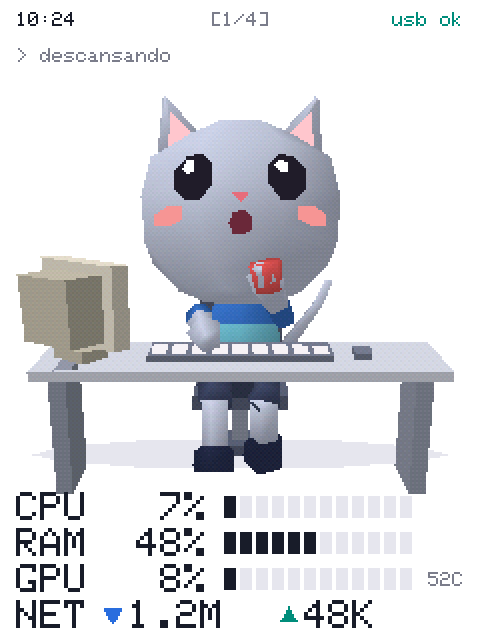
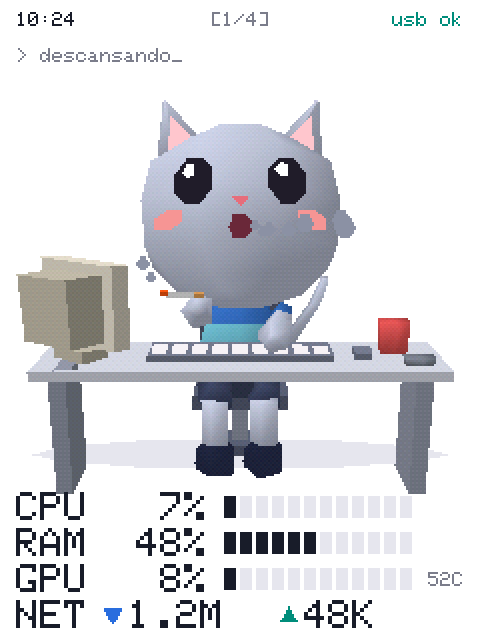
Añadir descanso para fumar y cenicero
Mientras descansa, la mascota alterna el café con un cigarro: da la
calada, suelta el humo hacia un lado y deja una voluta saliendo de la
brasa. Añade un cenicero en la mesa.

diff --git a/firmware/src/pets/critter.cpp b/firmware/src/pets/critter.cpp
@@ -13,6 +13,7 @@ enum Color : uint8_t {
   C_FUR, C_INNER, C_SHIRT, C_STRIPE, C_SHORTS, C_SHOE,
   C_INK, C_WHITE, C_BLUSH, C_MOUTH, C_NOSE,
   C_DESK, C_DESK_LEG, C_CHAIR, C_KEYBOARD, C_KEY, C_CRT, C_CRT_DARK, C_MUG, C_FLASH,
+  C_CIGARETTE, C_FILTER, C_EMBER, C_ASHTRAY,
 };
 
 // La cámara mira un poco desde arriba, para que se vea la mesa y el teclado
@@ -36,6 +37,11 @@ const int KEY_ROWS = 3, KEY_COLS = 9;
 const float REST_ARM_X = -1.47f, REST_ARM_Z = 0.15f;
 
 const float GRAVITY = 700;
+
+// Descanso para fumar: dos tandas de calada, soltar el humo y esperar
+const float SMOKE_BREAK = 9, SMOKE_CYCLE = 4.5f;
+const float DRAG_END = 1.3f, EXHALE_END = 2.5f;
+const Vec3 CIGARETTE_TIP = {-17, 0, 0};
 
 float rnd(float a, float b) { return a + (b - a) * (esp_random() / 4294967295.0f); }
 
@@ -110,6 +116,10 @@ Critter::Critter(const Species& species) : species_(species) {
   model_.setColor(C_CRT_DARK, 196, 190, 172);
   model_.setColor(C_MUG, 235, 90, 90);
   model_.setColor(C_FLASH, 0, 170, 150);
+  model_.setColor(C_CIGARETTE, 245, 245, 245);
+  model_.setColor(C_FILTER, 225, 160, 90);
+  model_.setColor(C_EMBER, 255, 90, 20);
+  model_.setColor(C_ASHTRAY, 130, 136, 150);
 
   // La cámara es la pieza raíz: al girarla se ve todo un poco desde arriba
   int camera = model_.addPart(-1, 0, CAMERA_PIVOT_Y, 0);
@@ -161,6 +171,11 @@ void Critter::buildDesk(int parent) {
   // Taza
   deskMug_ = model_.addPart(parent, 72, DESK_Y + 14, 28, 18);
   addMug(model_, deskMug_);
+
+  // Cenicero
+  int ashtray = model_.addPart(parent, 80, DESK_Y + 3, 52, 18);
+  const Ring ash[] = {{0, 8, 7, C_ASHTRAY}, {-3, 7, 6, C_ASHTRAY}};
+  model_.lathe(ashtray, ash, 2, 6);
 }
 
 void Critter::buildBody(int parent) {
@@ -208,6 +223,12 @@ void Critter::buildBody(int parent) {
   handMug_ = model_.addPart(armR_, 0, -34, 8, 66);
   model_.part(handMug_).rx = 2.35f;
   addMug(model_, handMug_);
+
+  // Cigarro en la otra mano: solo se ve mientras fuma
+  cigarette_ = model_.addPart(armL_, 0, -36, 6, 70);
+  model_.box(cigarette_, -2, 3, -1.3f, 1.3f, -1.3f, 1.3f, C_FILTER);
+  model_.box(cigarette_, -14, -2, -1.3f, 1.3f, -1.3f, 1.3f, C_CIGARETTE);
+  model_.box(cigarette_, -17, -14, -1.3f, 1.3f, -1.3f, 1.3f, C_EMBER);
 
   // Cabeza octogonal, con el pivote en el cuello
   head_ = model_.addPart(body_, 0, NECK_Y, 0, 22);
@@ -321,7 +342,10 @@ void Critter::showFace() {
       case Mood::Sleeping: eyes = Eyes::Closed; mouth = Mouth::Round; break;
       case Mood::Stressed: eyes = Eyes::Stress; mouth = Mouth::Wavy; break;
       case Mood::Busy: eyes = Eyes::Focus; mouth = Mouth::Flat; break;
-      case Mood::Relaxed: eyes = Eyes::Open; mouth = sipTimer_ > 0 ? Mouth::Round : Mouth::Open; break;
+      case Mood::Relaxed:
+        eyes = dragging_ ? Eyes::Closed : Eyes::Open;
+        mouth = dragging_ ? Mouth::Small : sipTimer_ > 0 || exhaling_ ? Mouth::Round : Mouth::Open;
+        break;
       default: eyes = Eyes::Open; mouth = Mouth::Small; break;
     }
   }
@@ -408,17 +432,22 @@ void Critter::update(const PetInput& in, float dt) {
   typePhase_ += dt * (mood_ == Mood::Working ? 16 : mood_ == Mood::Busy ? 25 : 34);
   updateKeys(dt);
 
-  // --- Café, cuando descansa ---
+  // --- Café y cigarro, por turnos, cuando descansa ---
   sipTimer_ = max(0.0f, sipTimer_ - dt);
+  smokeTimer_ = max(0.0f, smokeTimer_ - dt);
   if (relaxed && petTimer_ <= 0) {
-    nextSip_ -= dt;
-    if (nextSip_ <= 0) {
-      sipTimer_ = 2.6f;
-      nextSip_ = rnd(7, 14);
+    if (sipTimer_ <= 0 && smokeTimer_ <= 0 && (nextBreak_ -= dt) <= 0) {
+      if (nextIsSmoke_) smokeTimer_ = SMOKE_BREAK;
+      else sipTimer_ = 2.6f;
+      nextIsSmoke_ = !nextIsSmoke_;
+      nextBreak_ = rnd(7, 14);
     }
   } else {
-    sipTimer_ = 0;
+    sipTimer_ = smokeTimer_ = 0;
   }
+  const float smokePhase = fmodf(SMOKE_BREAK - smokeTimer_, SMOKE_CYCLE);
+  dragging_ = smokeTimer_ > 0 && smokePhase < DRAG_END;
+  exhaling_ = smokeTimer_ > 0 && smokePhase >= DRAG_END && smokePhase < EXHALE_END;
 
   // --- Postura según el humor ---
   const float keystroke = 0.14f * typing_;
@@ -441,6 +470,15 @@ void Critter::update(const PetInput& in, float dt) {
         aRZ = -0.3f;
         pitch = -0.08f;
         turn = 0;
+      }
+      if (smokeTimer_ > 0) {
+        // Lleva el cigarro a la boca; entre calada y calada lo deja a media altura
+        aLX = dragging_ ? -2.65f : -1.85f;
+        aLZ = dragging_ ? 0.45f : 0.05f;
+        if (dragging_ || exhaling_) {
+          pitch = -0.08f;
+          turn = 0;
+        }
       }
       break;
     case Mood::Working: break;
@@ -491,6 +529,10 @@ void Critter::update(const PetInput& in, float dt) {
   model_.part(tail_).rz = 0.14f * sinf(t_ * (sleeping ? 0.8f : 2.6f));
   model_.part(deskMug_).visible = sipTimer_ <= 0;
   model_.part(handMug_).visible = sipTimer_ > 0;
+  // El cigarro no gira con el brazo: siempre queda horizontal
+  model_.part(cigarette_).visible = smokeTimer_ > 0;
+  model_.part(cigarette_).rx = -armLX_;
+  model_.part(cigarette_).rz = -armLZ_;
 
   // Se pone roja con el calor
   uint8_t fr = species_.fur[0] + (uint8_t)((246 - species_.fur[0]) * heat_);
@@ -518,6 +560,19 @@ void Critter::update(const PetInput& in, float dt) {
   if (heat_ > 0.6f && (steamTimer_ -= dt) <= 0) {
     steamTimer_ = 0.32f;
     fx_.spawn(FxType::Steam, x + rnd(-24, 24), topY, rnd(-6, 6), -28, 1.1f, 2.5f);
+  }
+  if (smokeTimer_ > 0 && (tipSmokeTimer_ -= dt) <= 0) {
+    tipSmokeTimer_ = 0.3f;
+    int sx, sy;
+    model_.screenPos(cigarette_, CIGARETTE_TIP, sx, sy);
+    fx_.spawn(FxType::Smoke, sx, sy - 2, rnd(-16, -8), -20, 0.7f, 1);  // hacia fuera, lejos de la cara
+  }
+  if (exhaling_ && (exhaleTimer_ -= dt) <= 0) {
+    exhaleTimer_ = 0.11f;
+    int sx, sy;
+    model_.screenPos(head_, onFace(0, -22), sx, sy);
+    // Lo suelta hacia un lado, para no taparse la cara
+    fx_.spawn(FxType::Smoke, sx + rnd(-3, 3), sy + rnd(0, 3), rnd(42, 60), rnd(-7, 0), 1.1f, 2);
   }
   fx_.update(dt);
 }

diff --git a/firmware/src/pets/effects.cpp b/firmware/src/pets/effects.cpp
@@ -24,6 +24,10 @@ void Effects::update(float dt) {
       case FxType::Zzz: p.vx = 8 * sinf(p.age * 3); break;
       case FxType::Sweat: p.vy += 140 * dt; break;
       case FxType::Steam: p.size += 6 * dt; break;
+      case FxType::Smoke:
+        p.size += 3 * dt;
+        p.vx += 12 * sinf(p.age * 5 + p.x) * dt;  // sube ondulando
+        break;
     }
     p.x += p.vx * dt;
     p.y += p.vy * dt;
@@ -37,10 +41,19 @@ static void drawHeart(Gfx& g, int x, int y, int s, uint16_t c) {
   g.fillTriangle(x - s, y - s / 2, x + s, y - s / 2, x, y + s, c);
 }
 
+// Hexágono, para el vapor y el humo.
+static void drawPuff(Gfx& g, int x, int y, int s, uint16_t c) {
+  g.fillTriangle(x - s, y, x + s, y, x - s / 2, y - s, c);
+  g.fillTriangle(x - s / 2, y - s, x + s, y, x + s / 2, y - s, c);
+  g.fillTriangle(x - s, y, x + s, y, x - s / 2, y + s, c);
+  g.fillTriangle(x - s / 2, y + s, x + s, y, x + s / 2, y + s, c);
+}
+
 void Effects::draw(Gfx& g) {
   static const uint16_t heart = rgb(235, 70, 110);
   static const uint16_t sweat = rgb(90, 170, 240);
   static const uint16_t steam = rgb(205, 208, 218);
+  static const uint16_t smoke = rgb(140, 145, 160);
 
   for (const Particle& p : p_) {
     if (!p.alive || p.y < SCENE_TOP) continue;
@@ -52,13 +65,8 @@ void Effects::draw(Gfx& g) {
         g.fillTriangle(x - s, y, x + s, y, x, y - s * 2 - 2, sweat);
         g.fillTriangle(x - s, y, x + s, y, x, y + s, sweat);
         break;
-      case FxType::Steam:
-        // Hexágono gris
-        g.fillTriangle(x - s, y, x + s, y, x - s / 2, y - s, steam);
-        g.fillTriangle(x - s / 2, y - s, x + s, y, x + s / 2, y - s, steam);
-        g.fillTriangle(x - s, y, x + s, y, x - s / 2, y + s, steam);
-        g.fillTriangle(x - s / 2, y + s, x + s, y, x + s / 2, y + s, steam);
-        break;
+      case FxType::Steam: drawPuff(g, x, y, s, steam); break;
+      case FxType::Smoke: drawPuff(g, x, y, max(s, 1), smoke); break;
     }
   }
 }

diff --git a/firmware/src/pets/polymodel.h b/firmware/src/pets/polymodel.h
@@ -56,6 +56,9 @@ class PolyModel {
   void prepare(const View& view);  // una vez por fotograma
   void draw(Gfx& g) const;         // una vez por franja
 
+  // Posición en pantalla de un punto de una pieza, según lo último preparado
+  void screenPos(int part, const Vec3& local, int& x, int& y) const;
+
   // Caja en pantalla de lo último preparado
   int minX() const { return minX_; }
   int maxX() const { return maxX_; }
@@ -63,8 +66,8 @@ class PolyModel {
   int maxY() const { return maxY_; }
 
  private:
-  static const int MAX_VERTS = 960;
-  static const int MAX_TRIS = 1000;
+  static const int MAX_VERTS = 1060;
+  static const int MAX_TRIS = 1080;
   static const int MAX_PARTS = 44;
   static const int MAX_COLORS = 24;
 
@@ -89,6 +92,7 @@ class PolyModel {
   int addVert(int part, const Vec3& p, const Vec3& n);
   void addTri(int part, int a, int b, int c, uint8_t color);
 
+  View view_;
   Vert* verts_;
   Tri* tris_;
   Projected* proj_;

diff --git a/firmware/src/pets/critter.h b/firmware/src/pets/critter.h
@@ -40,7 +40,7 @@ class Critter : public Pet {
 
   // Piezas del modelo
   int body_, head_, armL_, armR_, shinL_, shinR_, tail_;
-  int deskMug_, handMug_;
+  int deskMug_, handMug_, cigarette_;
   int keyFlash_[FLASH_COUNT];
   int eyesOpen_, eyesBlink_, eyesClosed_, eyesHappy_, eyesFocus_, eyesStress_;
   int mouthSmall_, mouthOpen_, mouthRound_, mouthFlat_, mouthWavy_;
@@ -59,8 +59,11 @@ class Critter : public Pet {
   float pauseTimer_ = 0, nextPause_ = 4;  // se para a pensar de vez en cuando
   float flashTimer_ = 0;
 
-  // Café
-  float sipTimer_ = 0, nextSip_ = 3;
+  // Descansos: café y cigarro, por turnos
+  float sipTimer_ = 0, smokeTimer_ = 0, nextBreak_ = 3;
+  bool nextIsSmoke_ = false;
+  bool dragging_ = false, exhaling_ = false;  // calada y soltar el humo
+  float tipSmokeTimer_ = 0, exhaleTimer_ = 0;
 
   float heat_ = 0;
 

diff --git a/firmware/src/pets/polymodel.cpp b/firmware/src/pets/polymodel.cpp
@@ -128,7 +128,17 @@ static Vec3 rotate(const float* m, const Vec3& v) {
           m[6] * v.x + m[7] * v.y + m[8] * v.z};
 }
 
+void PolyModel::screenPos(int part, const Vec3& local, int& x, int& y) const {
+  const Part& p = parts_[part];
+  Vec3 w = rotate(p.R, {local.x * p.worldScale, local.y * p.worldScale, local.z * p.worldScale});
+  w = {w.x + p.pos.x, w.y + p.pos.y, w.z + p.pos.z};
+  float persp = CAMERA_DIST / (CAMERA_DIST - w.z * view_.scale);
+  x = (int)lroundf(view_.x + w.x * view_.scale * persp);
+  y = (int)lroundf(view_.floorY - w.y * view_.scale * persp);
+}
+
 void PolyModel::prepare(const View& view) {
+  view_ = view;
   // Jerarquía: los padres siempre se añaden antes que sus hijos
   for (int i = 0; i < partCount_; i++) {
     Part& p = parts_[i];

diff --git a/firmware/src/pets/effects.h b/firmware/src/pets/effects.h
@@ -2,7 +2,7 @@
 #include "../gfx.h"
 
 // Partículas sencillas que cualquier mascota puede usar.
-enum class FxType : uint8_t { Heart, Zzz, Sweat, Steam };
+enum class FxType : uint8_t { Heart, Zzz, Sweat, Steam, Smoke };
 
 struct Particle {
   bool alive;

diff --git a/firmware/src/config.h b/firmware/src/config.h
@@ -1,7 +1,7 @@
 #pragma once
 #include <Arduino.h>
 
-#define FIRMWARE_VERSION "2.2"
+#define FIRMWARE_VERSION "2.3"
 
 // --- Táctil XPT2046 (va en su propio bus SPI) ---
 #define TOUCH_CS 33

diff --git a/README.md b/README.md
@@ -21,7 +21,7 @@ Vive en una pantalla táctil ESP32 de 2,8" conectada por USB y te enseña de un 
 
 ## Qué hace
 
-- 🐱 **Trabaja cuando tú trabajas.** Si usas el teclado o el ratón, teclea. Si paras, se toma un café. Si te vas, se duerme.
+- 🐱 **Trabaja cuando tú trabajas.** Si usas el teclado o el ratón, teclea. Si paras, se toma un café o se fuma un cigarro. Si te vas, se duerme.
 - 🕹 **Motor 3D propio al estilo PSX.** Sin búfer de profundidad, con vértices que tiemblan y dithering, a unas 18 imágenes por segundo en un ESP32.
 - 📊 **Monitor de recursos.** CPU por núcleos, RAM, GPU, VRAM, temperatura, disco y red, en un estilo limpio de consola.
 - 👆 **Táctil.** Acaríciala y saldrán corazones. Desliza el dedo para cambiar de pantalla.
@@ -38,7 +38,7 @@ Vive en una pantalla táctil ESP32 de 2,8" conectada por USB y te enseña de un 
     <td align="center"><img src="docs/stress.png" width="200" alt="Rojo, agobiado y echando vapor"><br><b>Agobiado</b><br><sub>PC por encima del 85 %</sub></td>
   </tr>
   <tr>
-    <td align="center"><img src="docs/rest.png" width="200" alt="Descansando"><br><b>Descansando</b><br><sub>45 s sin tocar nada</sub></td>
+    <td align="center"><img src="docs/rest.png" width="200" alt="Descansando con un cigarro"><br><b>Descansando</b><br><sub>45 s sin tocar nada: café y cigarro</sub></td>
     <td align="center"><img src="docs/sleep.png" width="200" alt="Durmiendo"><br><b>Durmiendo</b><br><sub>3 min sin tocar nada o sin conexión</sub></td>
     <td align="center"><img src="docs/pet.png" width="200" alt="Contento, con corazones"><br><b>Mimos</b><br><sub>Cuando la tocas</sub></td>
   </tr>

diff --git a/README.en.md b/README.en.md
@@ -23,7 +23,7 @@ It lives on a 2.8" ESP32 touchscreen connected over USB and shows you how your P
 
 ## Features
 
-- 🐱 **Works when you work.** Use your keyboard or mouse and it types. Stop and it has a coffee. Leave and it falls asleep.
+- 🐱 **Works when you work.** Use your keyboard or mouse and it types. Stop and it has a coffee or a cigarette. Leave and it falls asleep.
 - 🕹 **Custom PSX-style 3D engine.** No depth buffer, wobbly vertices and dithering, at about 18 frames per second on an ESP32.
 - 📊 **Resource monitor.** Per-core CPU, RAM, GPU, VRAM, temperature, disk and network, in a clean console style.
 - 👆 **Touch.** Pet it and hearts appear. Swipe to change screens.
@@ -40,7 +40,7 @@ It lives on a 2.8" ESP32 touchscreen connected over USB and shows you how your P
     <td align="center"><img src="docs/stress.png" width="200" alt="Red, stressed and steaming"><br><b>Stressed</b><br><sub>PC above 85%</sub></td>
   </tr>
   <tr>
-    <td align="center"><img src="docs/rest.png" width="200" alt="Resting"><br><b>Resting</b><br><sub>45 s without input</sub></td>
+    <td align="center"><img src="docs/rest.png" width="200" alt="Resting with a cigarette"><br><b>Resting</b><br><sub>45 s without input: coffee and a cigarette</sub></td>
     <td align="center"><img src="docs/sleep.png" width="200" alt="Sleeping"><br><b>Sleeping</b><br><sub>3 min without input, or no connection</sub></td>
     <td align="center"><img src="docs/pet.png" width="200" alt="Happy, with hearts"><br><b>Cuddles</b><br><sub>When you touch it</sub></td>
   </tr>
